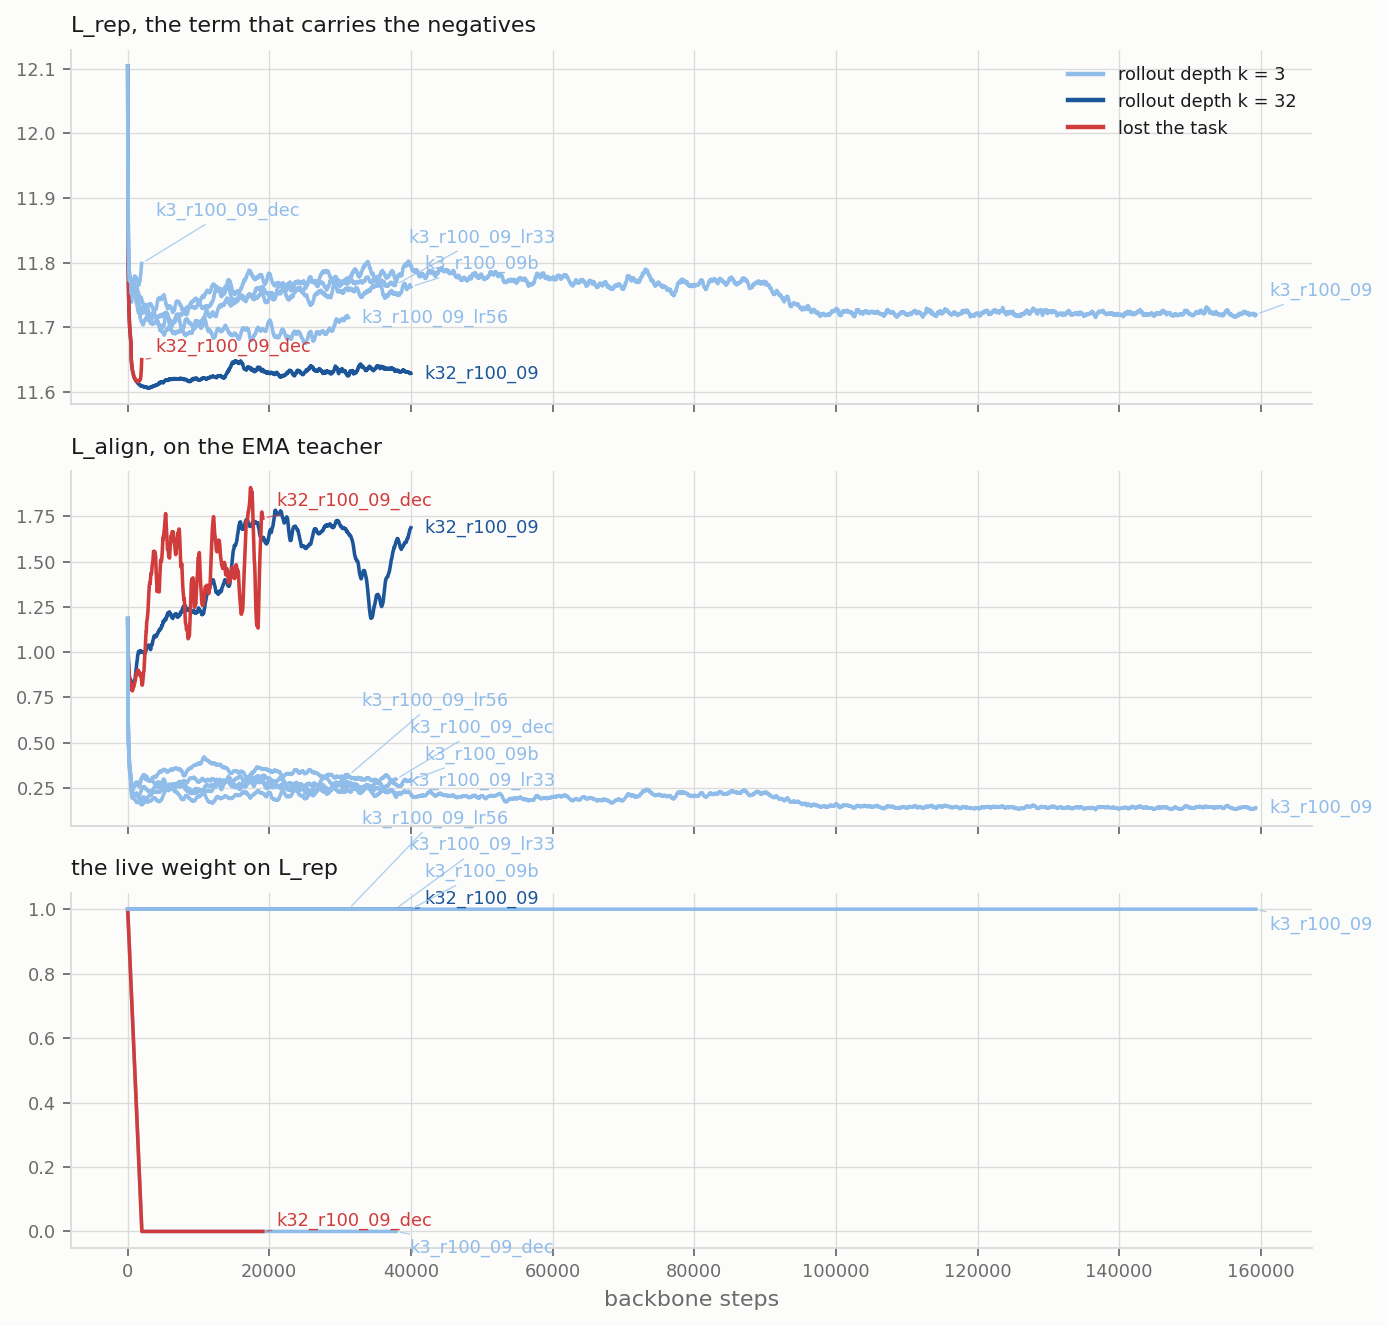
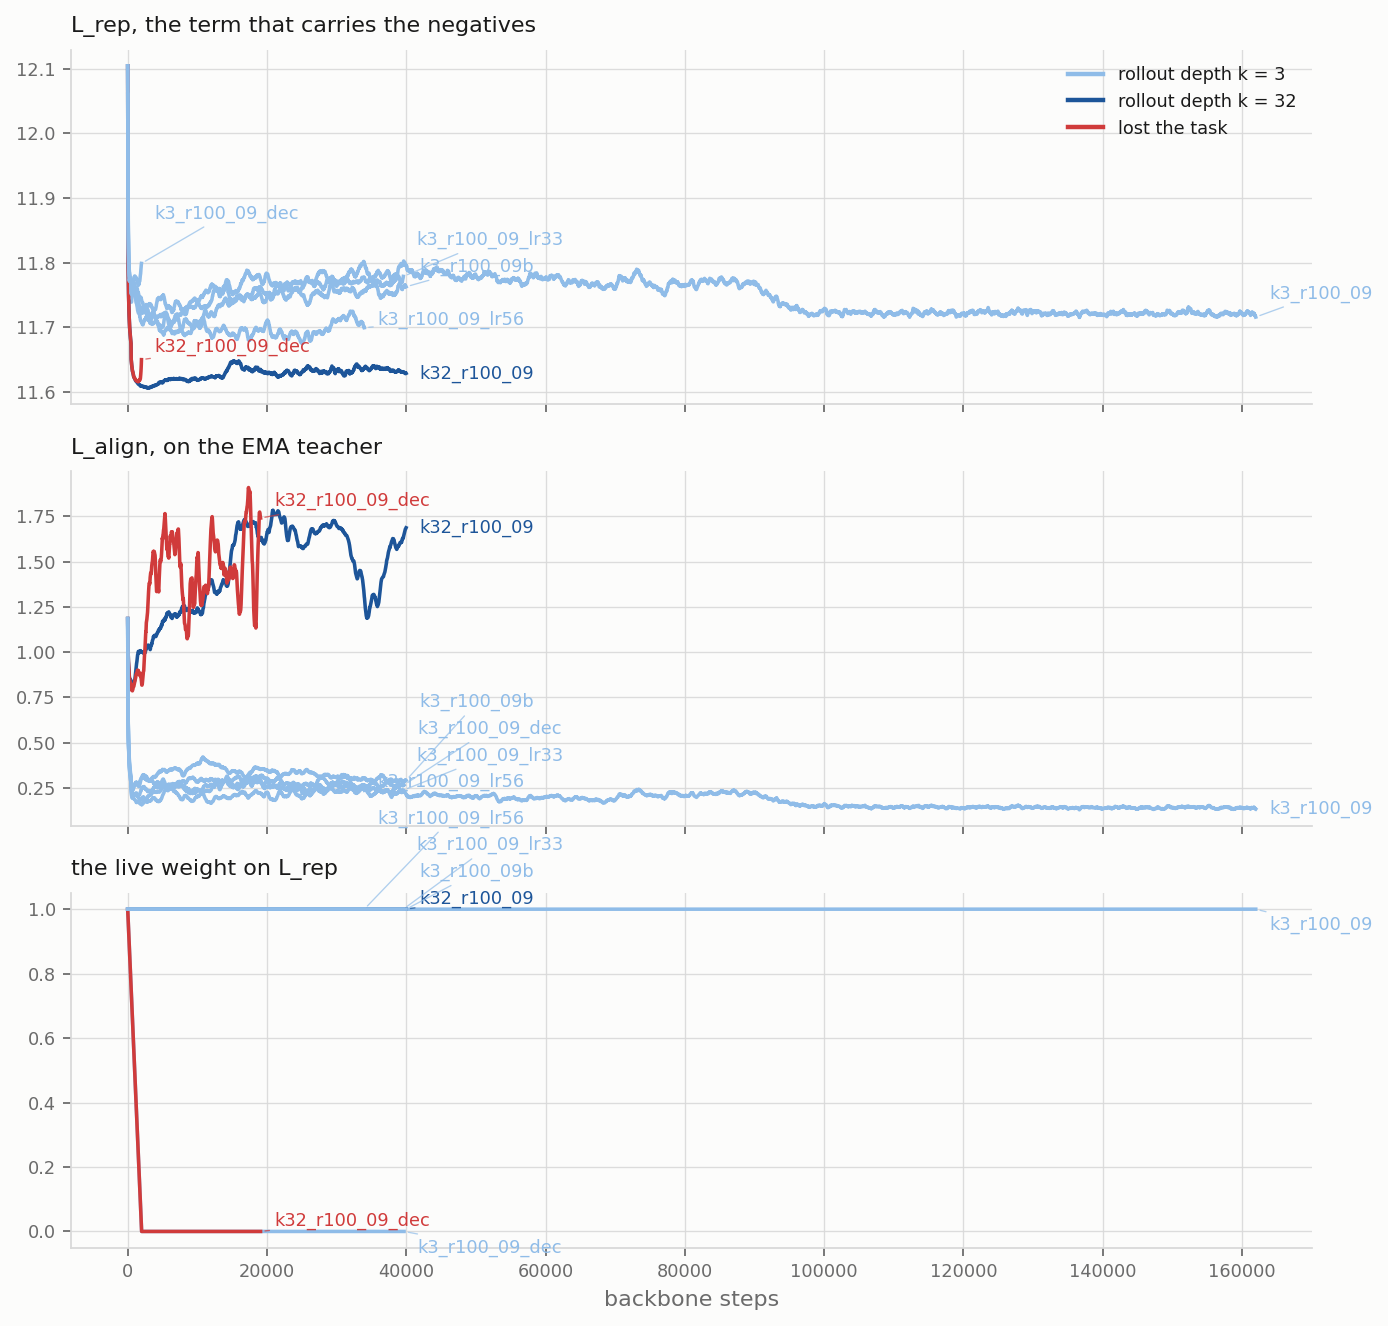
fix(#412): pgrep -f matched a peer's watcher shell and skipped a head
k3_r100_09_dec reached 40,000 steps at 06:02:27. Both head lanes read
"a head already runs it" and skipped it. No head was running. The guard
asked pgrep -f for the string "head_eval.sh k3_r100_09_dec 40000", and
two bash -c watcher shells of another session carried that string in
their own command lines.

head_busy.sh whitelists the three processes a head really is: the bash
driver, train_forecasting_head.py with the backbone path, and
eval_gift_eval_official.py with it. A bash -c wrapper has -c in field 2
and fails all three.

A busy pair now stays in the claim list, so only a written score takes it
out.

diff --git a/reports/2026-09-06_moirai_small_size/results/tables.md b/reports/2026-09-06_moirai_small_size/results/tables.md
@@ -17,10 +17,10 @@ The band is **0.0568** (this card measured it at 11.4M). Two numbers closer than
 | k32_r100_09_dec | lost | 0.5014 | 19100 | 0.5014 | 19100 |
 | k3_r100_09 | held | 0.9931 | 1942 | 0.9988 | 40000 |
 | k3_r100_09 | held | 0.9974 | 40001 | 0.9994 | 100000 |
-| k3_r100_09 | held | 0.9992 | 144399 | 0.9993 | 159300 |
-| k3_r100_09_dec | held | 0.9797 | 9690 | 0.9976 | 37900 |
-| k3_r100_09_lr33 | held | 0.9913 | 3337 | 0.9986 | 37800 |
-| k3_r100_09_lr56 | held | 0.9948 | 30176 | 0.9953 | 31200 |
+| k3_r100_09 | held | 0.9992 | 144399 | 0.9994 | 162200 |
+| k3_r100_09_dec | held | 0.9797 | 9690 | 0.9974 | 40000 |
+| k3_r100_09_lr33 | held | 0.9913 | 3337 | 0.9981 | 39900 |
+| k3_r100_09_lr56 | held | 0.9937 | 32504 | 0.9940 | 34300 |
 | k3_r100_09b | held | 0.9922 | 1869 | 0.9982 | 40000 |
 
 ### The contrastive AUC, step by step
@@ -31,9 +31,9 @@ Lower is worse. A run at 0.5 has lost the task. The last column is what the same
 |---|---|---|---|---|---|---|---|---|---|---|
 | k3_r100_09 | 3 | no | 0.993 | 0.998 | 0.997 | 0.997 | 0.998 | 0.999 | 0.998 | — |
 | k3_r100_09b | 3 | no | 0.993 | 0.995 | 0.999 | 0.997 | 0.997 | 0.999 | 0.998 | — |
-| k3_r100_09_lr33 | 3 | no | 0.997 | 0.991 | 0.998 | 0.997 | 0.997 | 0.998 | — | — |
+| k3_r100_09_lr33 | 3 | no | 0.997 | 0.991 | 0.998 | 0.997 | 0.997 | 0.998 | 0.998 | — |
 | k3_r100_09_lr56 | 3 | no | 0.996 | 0.998 | 0.998 | 0.997 | 0.997 | 0.997 | — | — |
-| k3_r100_09_dec | 3 | yes | 0.995 | 0.992 | 0.981 | 0.994 | 0.990 | 0.996 | — | — |
+| k3_r100_09_dec | 3 | yes | 0.995 | 0.992 | 0.981 | 0.994 | 0.990 | 0.996 | 0.997 | — |
 | k32_r100_09 | 32 | no | 0.967 | 0.934 | 0.892 | 0.756 | 0.770 | 0.843 | 0.777 | 0.978 (#404) |
 | k32_r100_09_dec | 32 | yes | 0.961 | 0.731 | 0.744 | 0.748 | 0.513 | — | — | 0.983 (#409) |
 
@@ -44,11 +44,11 @@ Lower is worse. A run at 0.5 has lost the task. The last column is what the same
 | k32_r100_09 | 40,000 | 40,000 | 13.4947 | 11.6270 | 1.7583 | 1.00 | 0.9400 | 0.7629 |
 | k32_r100_09_dec | 40,000 | 19,100 | 1.8013 | — | 1.8219 | 0.00 | 0.9191 | 0.5010 |
 | k3_r100_09 | 100,000 | 100,000 | 12.3238 | 11.7174 | 0.1472 | 1.00 | 1.0000 | 0.9997 |
-| k3_r100_09 | 200,000 | 159,300 | 12.1979 | 11.7054 | 0.1242 | 1.00 | 1.0000 | 0.9992 |
+| k3_r100_09 | 200,000 | 162,200 | 12.2275 | 11.7086 | 0.1273 | 1.00 | 1.0000 | 0.9982 |
 | k3_r100_09 | 40,000 | 40,000 | 12.5323 | 11.7822 | 0.1852 | 1.00 | 0.9400 | 0.9993 |
-| k3_r100_09_dec | 40,000 | 37,800 | 1.3638 | — | 0.3070 | 0.00 | 0.9378 | 0.9967 |
-| k3_r100_09_lr33 | 40,000 | 37,800 | 12.9628 | 11.7822 | 0.2710 | 1.00 | 0.9378 | 0.9985 |
-| k3_r100_09_lr56 | 40,000 | 31,200 | 13.2435 | 11.7208 | 0.3219 | 1.00 | 0.9312 | 0.9921 |
+| k3_r100_09_dec | 40,000 | 40,000 | 1.0579 | — | 0.2487 | 0.00 | 0.9400 | 0.9980 |
+| k3_r100_09_lr33 | 40,000 | 39,800 | 12.6933 | 11.7695 | 0.2228 | 1.00 | 0.9398 | 0.9979 |
+| k3_r100_09_lr56 | 40,000 | 34,300 | 12.8886 | 11.6927 | 0.2516 | 1.00 | 0.9343 | 0.9913 |
 | k3_r100_09b | 40,000 | 40,000 | 12.9777 | 11.7567 | 0.2832 | 1.00 | 0.9400 | 0.9984 |
 
 ### The cost
@@ -65,3 +65,4 @@ Lower is worse. A run at 0.5 has lost the task. The last column is what the same
 | k3_r100_09_bb100k_h30k_student | head | 30,000 | 1.5 |
 | k3_r100_09b_bb40k_h30k_student | GIFT-Eval, 97 configs | — | 3.1 |
 | k3_r100_09_bb100k_h30k_student | GIFT-Eval, 97 configs | — | 2.9 |
+| k3_r100_09_dec | backbone | 40,000 | 4.2 |
